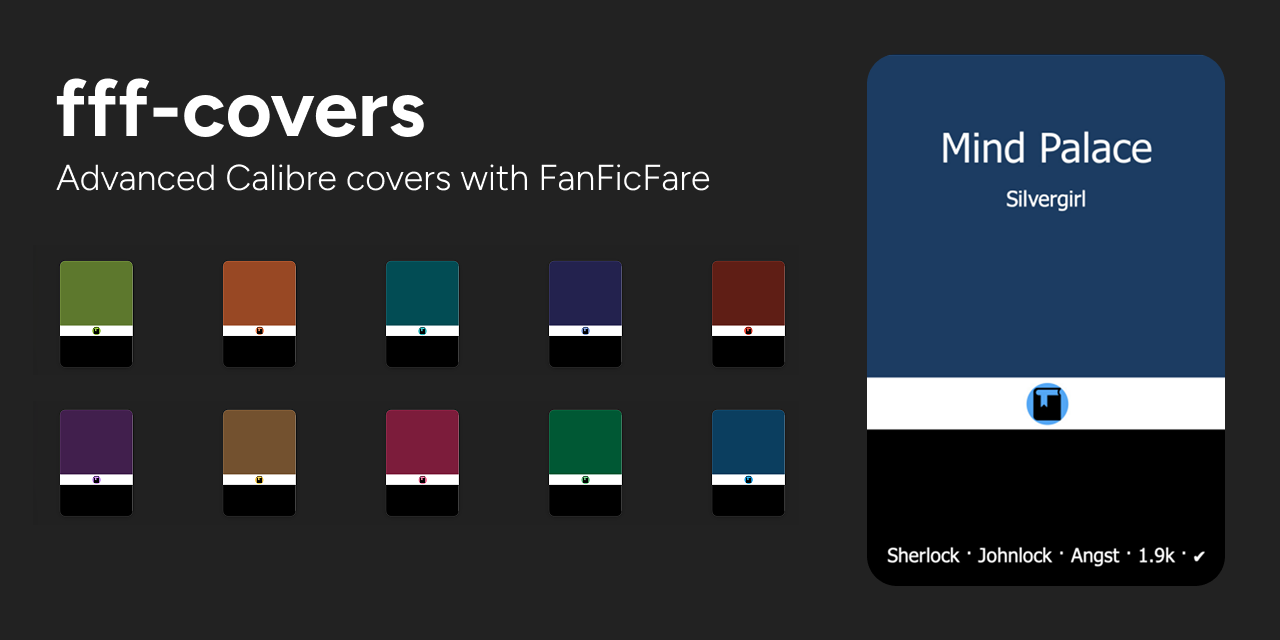
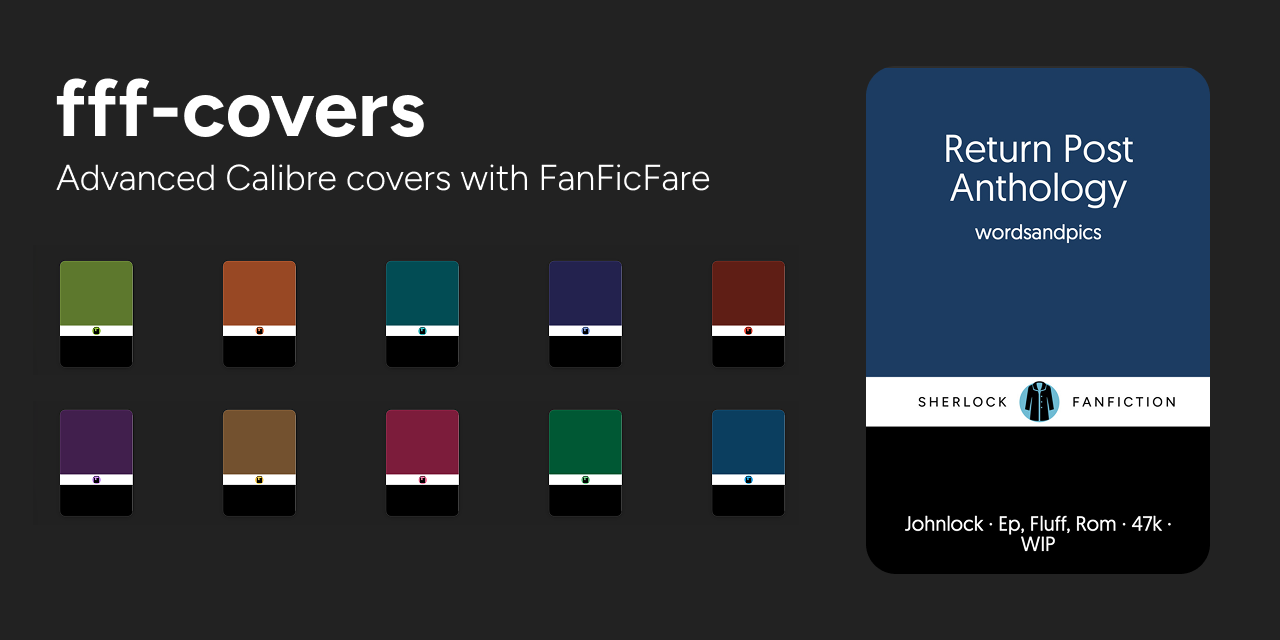
table styling, better sample images

Changed region(s): [[0.6562, 0.0625, 0.9688, 0.9375], [0.7188, 0.1875, 0.9062, 0.375]]

diff --git a/assets/css/style.css b/assets/css/style.css
@@ -466,3 +466,47 @@ img.small{
   font-weight: 600;
   color: #dde2f0;
 }
+/* ----------------------------------------
+   Tables
+---------------------------------------- */
+
+table {
+  width: 100%;
+  border-collapse: collapse;
+  margin: 24px 0;
+  font-size: 15px;
+}
+
+thead tr {
+  border-bottom: 2px solid rgba(255, 255, 255, 0.12);
+}
+
+th {
+  text-align: left;
+  padding: 10px 16px 10px 0;
+  font-size: 12px;
+  font-weight: 600;
+  letter-spacing: 0.06em;
+  text-transform: uppercase;
+  color: #6289a3;
+}
+
+td {
+  padding: 12px 16px 12px 0;
+  color: #b0b9d4;
+  border-bottom: 1px solid rgba(255, 255, 255, 0.05);
+  vertical-align: top;
+}
+
+td:first-child, th:first-child {
+  color: #dde2f0;
+  font-weight: 500;
+}
+
+td code {
+  font-size: 12px;
+}
+
+tr:last-child td {
+  border-bottom: none;
+}

diff --git a/basic-covers.md b/basic-covers.md
@@ -18,7 +18,7 @@ To get you started I have prepared a preset and alternate coloured images. The d
 
 ### Download the files
 
-You need two things from the [`code/cover-images/`](https://github.com/wordsandpics/fff-covers/tree/main/code/cover-images) folder in this repo:
+You need two things from the [`code/cover-images/`](https://github.com/wordsandpics/fff-covers/tree/main/code/cover-images) folder in this repo (also linked from the main nav on this tutorial):
 
 1. **`classics-preset.zip`** — the preset settings file
 2. _Optional_: **Other colour images** — eight solid color options are available. The preset comes with a basic gray one, but you can swap it any time. Images are in the `code/cover-images/` folder.
@@ -47,7 +47,7 @@ Here's a brief tour of the four tabs so you know what you're working with.
 
 <img src="{{ '/assets/img/gcc-fonts.png' | relative_url }}" alt="Generate Cover — Fonts tab" class="small">
 
-This preset uses Tahoma — 84pt for the title, 44pt for author and custom text, 28pt for series. Text is white. The **Use the same font family for all text** option is checked, so if you want to change the typeface you only need to change it in one place. You can customize this any way you want, but be aware: there seems to be a bug and not all fonts will show un in the menu or work. Test your way forward. 
+This preset uses Tahoma, just for wide availability. Text is white. The **Use the same font family for all text** option is checked, so if you want to change the typeface you only need to change it in one place. You can customize this any way you want, but be aware: there seems to be a bug and not all fonts will show un in the menu or work. Test your way forward. 
 
 #### Dimensions
 

diff --git a/advanced-columns.md b/advanced-columns.md
@@ -146,7 +146,7 @@ result = list_union(result, test(contains(tags,
 ***
 
 ## Short ship
-You want to know the fic's ship- and preferrably without displaying John Johnsson (Some fandom)/Martin James Martinsson on every cover. 
+You want to know the fic's ship- and preferrably without displaying "Jesper James Johnsson (Some fandom)/Martin Moriarty Martinsson" on every cover. 
 
 **Column name:** Cover ship tags — **Lookup name:** `short_ships` — **Type:** Column built from other columns, behaves like tags
 

diff --git a/index.md b/index.md
@@ -8,7 +8,7 @@ subtitle: A guide for FanFicFare + Calibre users
 
 <p>This is not a guide to setting up FanFicFare from scratch. If you need a more general, but advanced guide without emphasis on covers, I strongly recommend <a href="https://maelstrom.quest/2026/02/24/calibre-fff-guide/">Stormy Crossroads' Calibre + Fanficfare tutorial</a>. For thorough documentation there's the <a href="https://github.com/JimmXinu/FanFicFare/wiki)">FFF wiki</a>. </p>
 
-![Cover samples]({{ '/assets/img/cover_samples.png' | relative_url }})
+![Cover samples]({{ '/assets/img/cover-samples.png' | relative_url }})
 
 This is a sample of what my covers look like. I have per-fandom cover designs (even per-ship in some cases!) and I've set it up so I can see at a glance all the information to see what the fic is about: Main ship, genre, length, completion status. You can decide exactly what information you want displayed. the templates available in this guide are slightly different as they don't have per-fandom icons and text, but they're editable, so if you want you can modify them yourself.
 

diff --git a/per-fandom.md b/per-fandom.md
@@ -8,7 +8,7 @@ In step 1 you set up a single cover preset that applies to everything you downlo
 
 ## Create a fandom preset
 
-Open Generate Cover and create a new preset for your first fandom — duplicate your Classics preset as a starting point, change the background image or design, and save it with a name like **Classics Sherlock** or **Classics HR**.
+Open Generate Cover and create a new preset for your first fandom — duplicate your Classics preset as a starting point, change the background image or design, and save it with a name like **Classics Sherlock** or **Classics Green**.
 
 Repeat for each fandom you want to handle. Your existing Classics preset remains the default for anything that doesn't match.
 

diff --git a/advanced-ships.md b/advanced-ships.md
@@ -40,6 +40,7 @@ In **Preferences → Add your own columns**, add:
 | Primary Slash | primary_slash | Comma separated text, like tags, shown in the Tag browser |
 | Secondary Slash | secondary_slash | Comma separated text, like tags, shown in the Tag browser |
 
+
 Single-value tag columns don't sort in any meaningful way, so you get the tag browser benefit — clickable ship names — without any sorting side effects.
 
 ## Update personal.ini